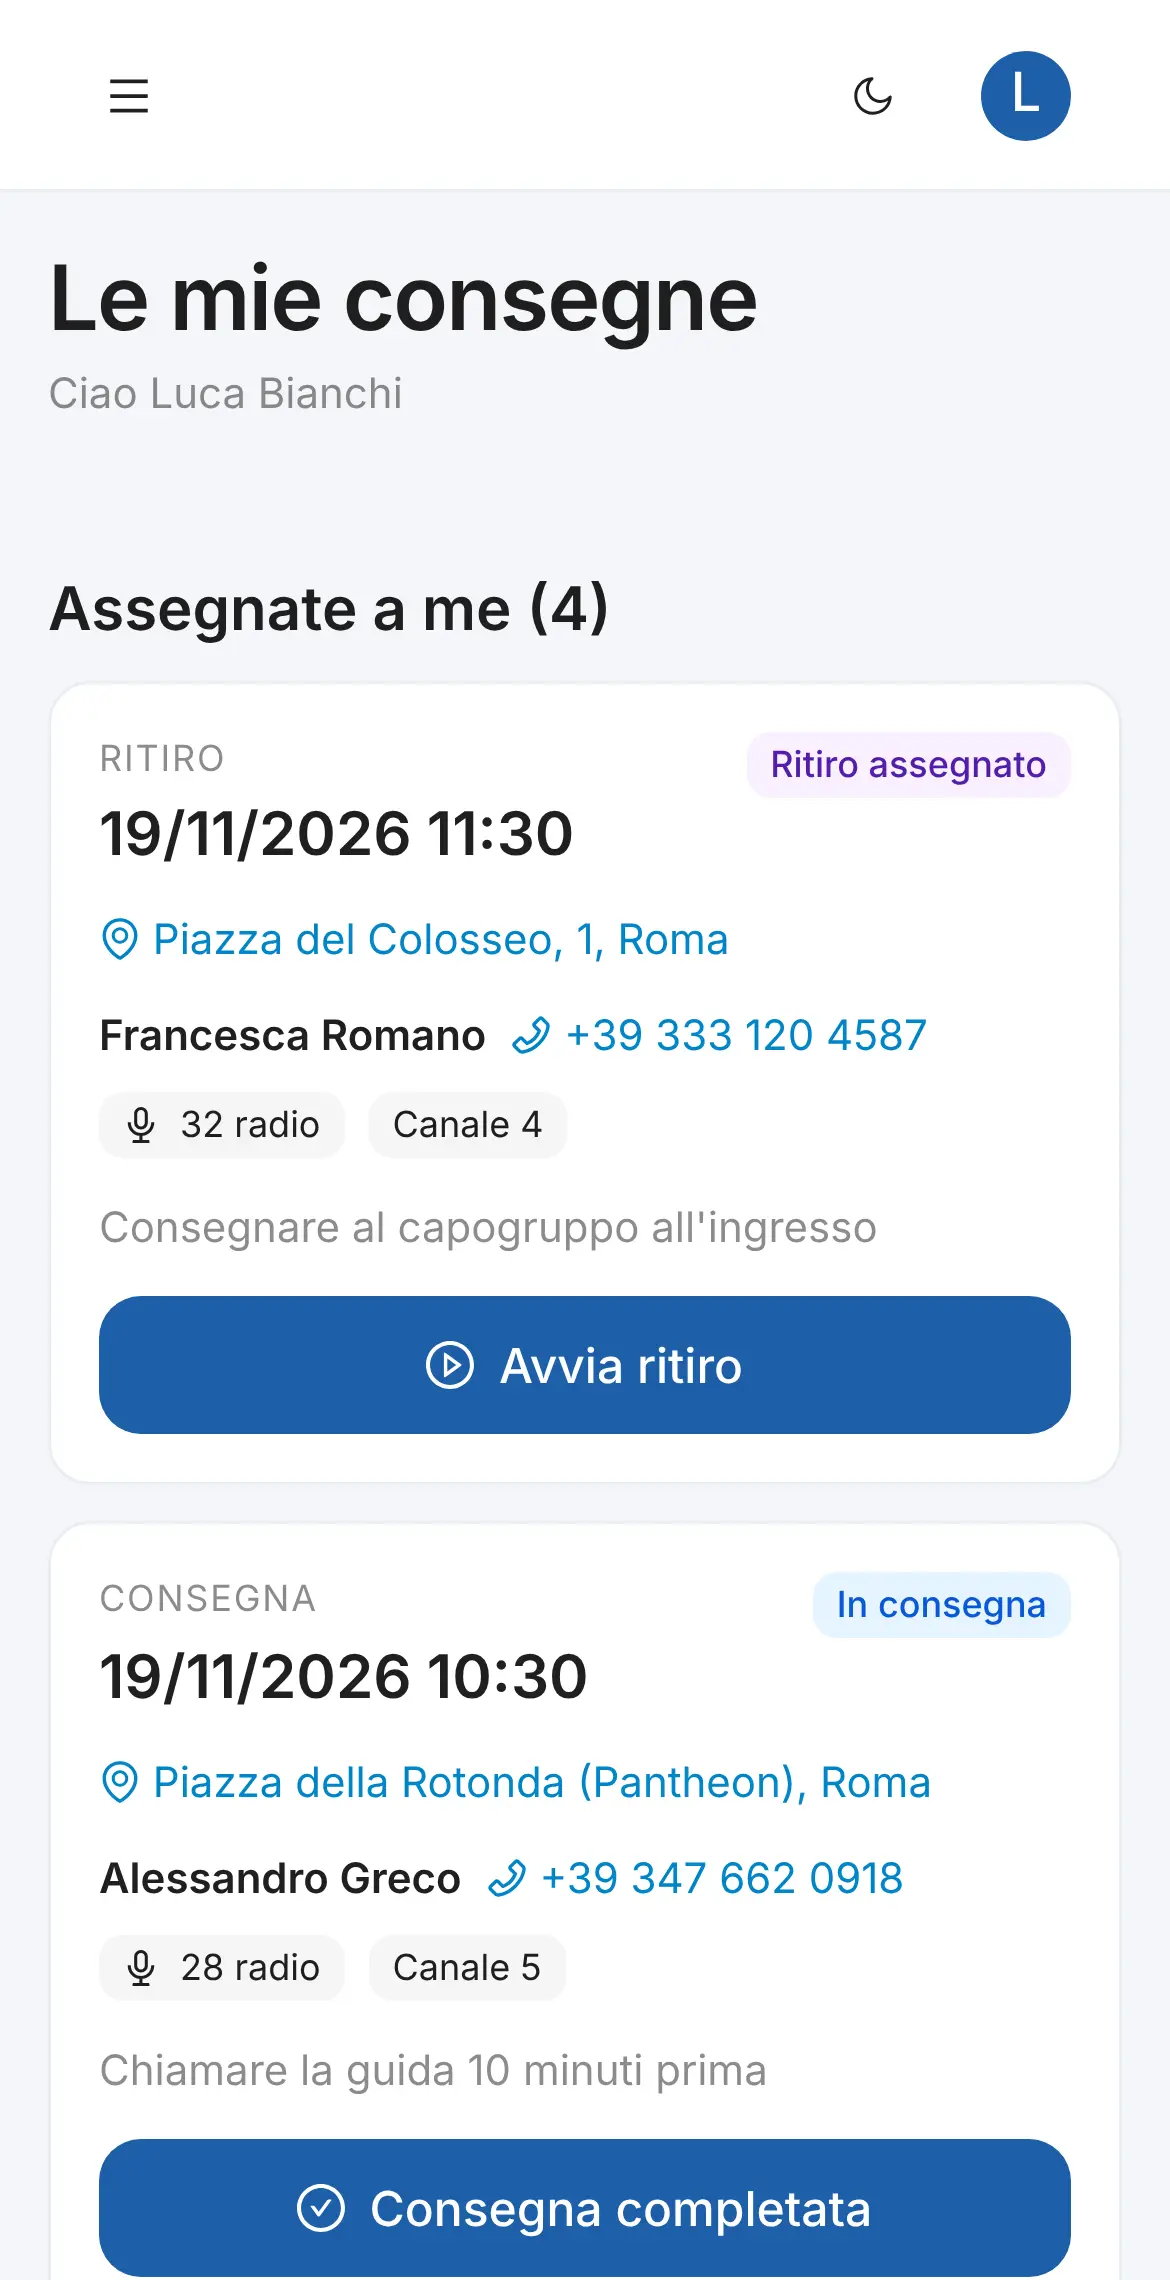
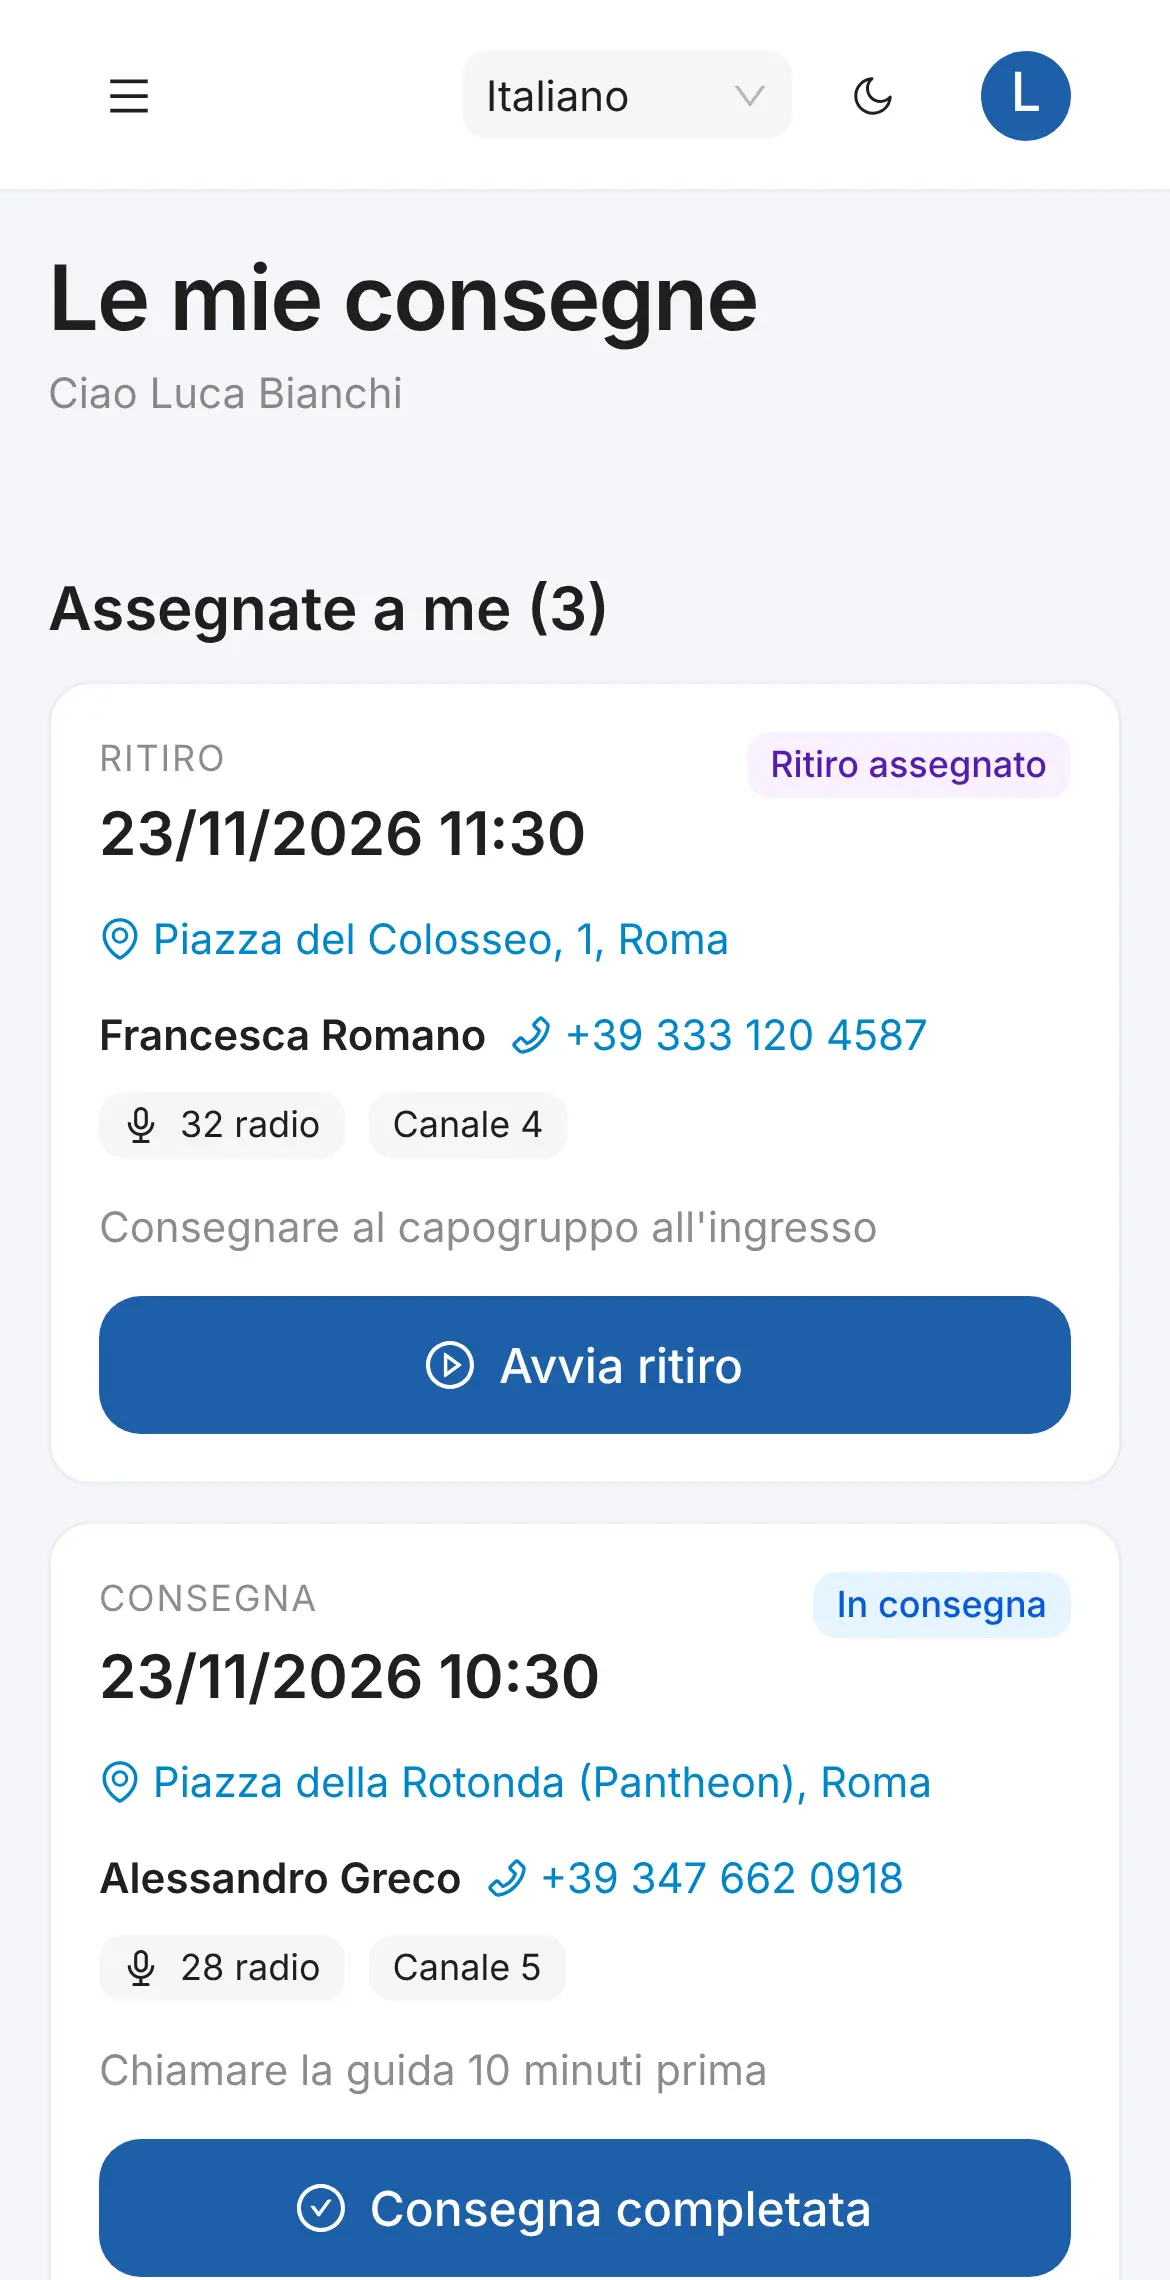
feat(landing): Italian and English product screenshots, chosen by language
Every screenshot is now taken from the real app in both languages. The landing shows the
Italian ones to Italian visitors and the English ones to everyone else (English, German,
French and any other browser language). Demo free text has an English variant, the FAQ
says the app is available in Italian and English, and the docs describe the translation
workflow.

Claude-Session: https://claude.ai/code/session_01MFmSkEmWKdXgFVV1d9rA7X

diff --git a/src/features/landing/i18n.ts b/src/features/landing/i18n.ts
@@ -214,7 +214,7 @@ const it: Dict = {
       { q: "Funziona con le mie radioguide?", a: "Sì, con qualsiasi modello: imposti la numerazione dei tuoi canali, da 1 a 10.000, e disabiliti quelli guasti o riservati. Scegli tu se un canale serve un solo gruppo alla volta o se più gruppi possono condividerlo." },
       { q: "Le guide devono registrarsi?", a: "No. Usano il link di prenotazione della tua azienda e compilano un modulo che richiede un minuto. L'ordine arriva subito a te." },
       { q: "I nostri dati sono separati da quelli di altre aziende?", a: "Sì. Ogni azienda vede solo i propri ordini, rider e guide, e la separazione è applicata direttamente nel database." },
-      { q: "In che lingua è l'applicazione?", a: "L'applicazione è in italiano. Questo sito è anche in inglese, tedesco e francese: se il tuo team lavora in un'altra lingua, scrivici." },
+      { q: "In che lingua è l'applicazione?", a: "L'applicazione è in italiano e in inglese, e si cambia lingua dal menu in alto. Questo sito è anche in tedesco e francese: se il tuo team lavora in un'altra lingua, scrivici." },
       { q: "Quanto costa?", a: "Dipende da quanti rider e ordini gestite. Raccontaci il tuo servizio e ti mandiamo una proposta." },
     ],
   },
@@ -389,7 +389,7 @@ const en: Dict = {
       { q: "Does it work with our radioguides?", a: "Yes, with any model: set how your channels are numbered, from 1 to 10,000, and disable faulty or reserved ones. You choose whether a channel serves one group at a time or can be shared." },
       { q: "Do guides need to sign up?", a: "No. They use your company's booking link and fill in a form that takes a minute. The order reaches you straight away." },
       { q: "Is our data kept apart from other companies?", a: "Yes. Each company only sees its own orders, riders and guides, and the separation is enforced in the database itself." },
-      { q: "What language is the app in?", a: "The app is in Italian. This website is also in English, German and French: if your team works in another language, get in touch." },
+      { q: "What language is the app in?", a: "The app is in Italian and English, and you switch language from the header. This website is also in German and French: if your team works in another language, get in touch." },
       { q: "How much does it cost?", a: "It depends on how many riders and orders you handle. Tell us about your service and we will send you a proposal." },
     ],
   },
@@ -564,7 +564,7 @@ const de: Dict = {
       { q: "Funktioniert es mit unseren Geräten?", a: "Ja, mit jedem Modell: Sie legen die Nummerierung Ihrer Kanäle fest, von 1 bis 10.000, und sperren defekte oder reservierte. Sie entscheiden, ob ein Kanal nur einer Gruppe gleichzeitig dient oder geteilt werden kann." },
       { q: "Müssen sich Gästeführer registrieren?", a: "Nein. Sie nutzen den Buchungslink Ihrer Firma und füllen ein Formular aus, das eine Minute dauert. Der Auftrag ist sofort bei Ihnen." },
       { q: "Sind unsere Daten von anderen Firmen getrennt?", a: "Ja. Jede Firma sieht nur ihre eigenen Aufträge, Fahrer und Gästeführer, und die Trennung wird direkt in der Datenbank durchgesetzt." },
-      { q: "In welcher Sprache ist die App?", a: "Die App ist auf Italienisch. Diese Website gibt es auch auf Englisch, Deutsch und Französisch: Arbeitet Ihr Team in einer anderen Sprache, schreiben Sie uns." },
+      { q: "In welcher Sprache ist die App?", a: "Die App gibt es auf Italienisch und Englisch; die Sprache wechseln Sie oben in der Kopfzeile. Diese Website gibt es auch auf Deutsch und Französisch: Arbeitet Ihr Team in einer anderen Sprache, schreiben Sie uns." },
       { q: "Was kostet es?", a: "Das hängt davon ab, wie viele Fahrer und Aufträge Sie haben. Erzählen Sie uns von Ihrem Service, und wir schicken Ihnen ein Angebot." },
     ],
   },
@@ -739,7 +739,7 @@ const fr: Dict = {
       { q: "Est-ce compatible avec nos audioguides ?", a: "Oui, avec tous les modèles : indiquez la numérotation de vos canaux, de 1 à 10 000, et désactivez ceux qui sont défectueux ou réservés. Vous choisissez si un canal sert un seul groupe à la fois ou peut être partagé." },
       { q: "Les guides doivent-ils s'inscrire ?", a: "Non. Ils utilisent le lien de réservation de votre entreprise et remplissent un formulaire d'une minute. La commande vous parvient aussitôt." },
       { q: "Nos données sont-elles séparées de celles des autres entreprises ?", a: "Oui. Chaque entreprise ne voit que ses commandes, livreurs et guides, et la séparation est appliquée dans la base de données elle-même." },
-      { q: "Dans quelle langue est l'application ?", a: "L'application est en italien. Ce site existe aussi en anglais, allemand et français : si votre équipe travaille dans une autre langue, écrivez-nous." },
+      { q: "Dans quelle langue est l'application ?", a: "L'application est en italien et en anglais, et on change de langue depuis l'en-tête. Ce site existe aussi en allemand et en français : si votre équipe travaille dans une autre langue, écrivez-nous." },
       { q: "Combien ça coûte ?", a: "Cela dépend du nombre de livreurs et de commandes. Décrivez-nous votre service et nous vous enverrons une offre." },
     ],
   },

diff --git a/src/features/landing/landingPage.tsx b/src/features/landing/landingPage.tsx
@@ -36,17 +36,24 @@ const SECTION_SHOTS: Record<SectionId, { shot: ShotId; kind: "tall" | "modal" | 
 };
 
 /** "?v=<fingerprint>" so a changed screenshot is not served from a cache that holds the old one. */
-const version = (id: ShotId) => {
-  const v = typeof __SHOT_VERSIONS__ === "undefined" ? undefined : __SHOT_VERSIONS__[id];
+const version = (file: string) => {
+  const v = typeof __SHOT_VERSIONS__ === "undefined" ? undefined : __SHOT_VERSIONS__[file];
   return v ? `?v=${v}` : "";
 };
 
-function Shot({ id, alt, eager = false }: { id: ShotId; alt: string; eager?: boolean }) {
+/**
+ * The screenshots come from the real app in each language: Italian visitors see the Italian screens
+ * (<id>.webp), everyone else the English ones (<id>-en.webp). Both are made by scripts/screenshots.
+ */
+const shotFile = (id: ShotId, lang: Lang) => (lang === "it" ? id : `${id}-en`);
+
+function Shot({ id, alt, lang, eager = false }: { id: ShotId; alt: string; lang: Lang; eager?: boolean }) {
+  const file = shotFile(id, lang);
   return (
     <picture>
-      <source type="image/webp" srcSet={`/images/screens/${id}.webp${version(id)}`} />
+      <source type="image/webp" srcSet={`/images/screens/${file}.webp${version(file)}`} />
       <img
-        src={`/images/screens/${id}.jpg${version(id)}`}
+        src={`/images/screens/${file}.jpg${version(file)}`}
         alt={alt}
         width={SHOTS[id].w}
         height={SHOTS[id].h}
@@ -74,7 +81,7 @@ export function LanguageSelect({ lang, onChange, label, id }: { lang: Lang; onCh
   );
 }
 
-function Lightbox({ shot, alt, close, closeLabel }: { shot: ShotId; alt: string; close: () => void; closeLabel: string }) {
+function Lightbox({ shot, alt, lang, close, closeLabel }: { shot: ShotId; alt: string; lang: Lang; close: () => void; closeLabel: string }) {
   useEffect(() => {
     const onKey = (e: KeyboardEvent) => e.key === "Escape" && close();
     window.addEventListener("keydown", onKey);
@@ -87,7 +94,7 @@ function Lightbox({ shot, alt, close, closeLabel }: { shot: ShotId; alt: string;
         <CloseOutlined />
       </button>
       <div className={`lp-lightbox-img${narrow ? " is-narrow" : ""}`}>
-        <Shot id={shot} alt={alt} eager />
+        <Shot id={shot} alt={alt} lang={lang} eager />
       </div>
     </div>
   );
@@ -372,7 +379,7 @@ export default function LandingPage() {
                   onClick={() => setZoom({ shot: "web-orders", alt: t.hero.imageAlt })}
                   aria-label={`${t.product.enlarge}: ${t.hero.imageAlt}`}
                 >
-                  <Shot id="web-orders" alt={t.hero.imageAlt} eager />
+                  <Shot id="web-orders" alt={t.hero.imageAlt} lang={lang} eager />
                 </button>
                 <figcaption className="lp-cap">{t.hero.webLabel}</figcaption>
               </figure>
@@ -383,7 +390,7 @@ export default function LandingPage() {
                   onClick={() => setZoom({ shot: "crop-rider", alt: t.hero.phoneAlt })}
                   aria-label={`${t.product.enlarge}: ${t.hero.phoneAlt}`}
                 >
-                  <Shot id="crop-rider" alt={t.hero.phoneAlt} eager />
+                  <Shot id="crop-rider" alt={t.hero.phoneAlt} lang={lang} eager />
                 </button>
                 <figcaption className="lp-cap">{t.hero.mobileLabel}</figcaption>
               </figure>
@@ -439,7 +446,7 @@ export default function LandingPage() {
                       onClick={() => setZoom({ shot, alt: s.title })}
                       aria-label={`${t.product.enlarge}: ${s.title}`}
                     >
-                      <Shot id={shot} alt={s.title} />
+                      <Shot id={shot} alt={s.title} lang={lang} />
                     </button>
                   </article>
                 );
@@ -559,7 +566,7 @@ export default function LandingPage() {
         </div>
       </footer>
 
-      {zoom && <Lightbox shot={zoom.shot} alt={zoom.alt} close={() => setZoom(null)} closeLabel={t.product.close} />}
+      {zoom && <Lightbox shot={zoom.shot} alt={zoom.alt} lang={lang} close={() => setZoom(null)} closeLabel={t.product.close} />}
     </div>
   );
 }

diff --git a/src/i18n/LanguageSwitch.tsx b/src/i18n/LanguageSwitch.tsx
@@ -2,7 +2,7 @@ import { Select } from "antd";
 import { APP_LANGS, APP_LANG_NAMES, getLang, setLang, type AppLang } from "./index";
 
 /** Italian / English. Choosing one saves it and reloads the page (see ./index.ts). */
-export function LanguageSwitch({ style }: { style?: React.CSSProperties }) {
+export function LanguageSwitch({ onDark = false, style }: { onDark?: boolean; style?: React.CSSProperties }) {
   return (
     <Select<AppLang>
       size="small"
@@ -11,7 +11,7 @@ export function LanguageSwitch({ style }: { style?: React.CSSProperties }) {
       onChange={setLang}
       aria-label="Language / Lingua"
       options={APP_LANGS.map((l) => ({ value: l, label: APP_LANG_NAMES[l] }))}
-      style={{ width: 110, ...style }}
+      style={{ width: 110, ...(onDark ? { background: "rgba(255,255,255,.14)", color: "#fff" } : {}), ...style }}
     />
   );
 }

diff --git a/src/features/booking/BookingPage.tsx b/src/features/booking/BookingPage.tsx
@@ -89,7 +89,7 @@ export function BookingPage({ legacy = false }: { legacy?: boolean }) {
       style={{ minHeight: "100vh", padding: "24px 16px 40px", background: `linear-gradient(180deg, ${brand.navy} 0, ${brand.navy} 220px, transparent 220px)` }}
     >
       <div style={{ alignSelf: "flex-end" }}>
-        <LanguageSwitch />
+        <LanguageSwitch onDark />
       </div>
       <Brand to={false} onDark />
       <div style={{ width: "100%", maxWidth: 760 }}>{children}</div>

diff --git a/src/features/auth/AuthShell.tsx b/src/features/auth/AuthShell.tsx
@@ -30,7 +30,7 @@ export function AuthShell({ title, subtitle, children, footer, width = 440 }: Au
       }}
     >
       <div style={{ position: "absolute", top: 16, right: 16 }}>
-        <LanguageSwitch />
+        <LanguageSwitch onDark />
       </div>
       <Brand to={false} onDark />
 

diff --git a/docs/DEVELOPMENT.md b/docs/DEVELOPMENT.md
@@ -41,7 +41,7 @@ The same checks run in CI (`.github/workflows/ci.yml`).
 | add a column | new migration → `npm run db:types` → update the feature's `api.ts` and form |
 | change colours / typography | `src/config/theme.ts` |
 | add a screen | `src/features/<name>/`, register the route in `src/App.tsx` (and the nav in `layout/AppLayout.tsx`) |
-| add an Italian error message | `src/lib/errors.ts` |
+| add a text, or an error message | write it in Italian inside `t("…")` (error messages: `src/lib/errors.ts`), then add the English in `src/i18n/en.ts` |
 
 ## Conventions
 
@@ -52,9 +52,15 @@ The same checks run in CI (`.github/workflows/ci.yml`).
 - Use `App.useApp()` for `message` / `modal` / `notification` (not the static antd functions).
 - Dates: store `timestamptz`; display with `fmtDateTime(value, tenant.timezone)`; convert picker values with
   `wallClockToIso` / `isoToWallClock`.
-- Language: UI text in Italian; code, comments and docs in English.
+- Language: every visible text is written in Italian and wrapped in `t("…")` (`tn(n, "{n} ordine", "{n} ordini")`
+  for counts, `{name}` placeholders for values, never string concatenation). English lives in `src/i18n/en.ts`,
+  keyed by the Italian text; `src/i18n/i18n.test.ts` fails when a text has no English version, so a missing
+  translation cannot reach production. The language is Italian unless `?lang=en` or the language switch (header,
+  sign-in and booking pages) chose English; the choice is kept in the browser and changing it reloads the page. The
+  browser's own language is deliberately not used, so existing Italian companies never see their app change.
+  Code, comments and docs are in English.
 - Don't use `localStorage` for application data. The only things stored there are the Supabase session
-  (by supabase-js) and the theme preference.
+  (by supabase-js), the theme preference and the language.
 
 ## Testing
 
@@ -123,7 +129,12 @@ guides and ~3 months of orders). To regenerate them after a UI change:
 ```bash
 node scripts/screenshots/capture.mjs            # all of them
 node scripts/screenshots/capture.mjs dashboard  # only names containing "dashboard"
+node scripts/screenshots/capture.mjs "" en      # only the English set
 ```
+
+Every shot is taken twice, from the real app in each language: `<name>.webp` (Italian) and `<name>-en.webp` (English). The
+landing page shows the Italian ones to Italian visitors and the English ones to everyone else. The landing adds a
+fingerprint of each file to its address (`?v=…`), so a replaced picture is never served from an old cache.
 
 The script starts Vite and answers the app's Supabase calls from `scripts/screenshots/demo-data.mjs` inside the
 browser, so no database is needed and no real data can end up in a picture. The clock is frozen at 10:25 Rome time

diff --git a/docs/TODO.md b/docs/TODO.md
@@ -106,3 +106,10 @@ The decision dashboard (`get_dashboard_insights`) is in. Next, once there is rea
 - [ ] Export of the month to CSV and PDF for the accountant.
 
 - [ ] Drop `get_dashboard_stats` in a later migration once no deployed app build calls it (the new dashboard uses `get_dashboard_insights`).
+
+## 11. More languages in the app
+
+The app has Italian and English (`src/i18n`). To add German or French: add the language to `APP_LANGS`, a dictionary next to
+`en.ts` (the unit test lists every missing text), the dayjs and antd locales in `src/lib/dates.ts` and `src/App.tsx`, and take
+the landing screenshots in that language (`capture.mjs`). Not yet translated: e-mails sent by Supabase Auth (invitation,
+confirmation, reset), the PDF header text of the order export, and the public privacy, terms and cookie pages.

diff --git a/README.md b/README.md
@@ -15,7 +15,7 @@ Everything is multi-tenant: each company only ever sees its own data, enforced b
 | Front end | React 19, TypeScript, Vite 8, Ant Design 6, Refine (headless), TanStack Query, Recharts 3 |
 | Back end | [Supabase](https://supabase.com): Postgres 17 + Row Level Security, Auth, Realtime, Edge Functions |
 | Delivery | Docker image (nginx, non-root) or any static host |
-| Language | UI in Italian |
+| Language | UI in Italian (default) and English |
 
 ## Quick start (local)
 
